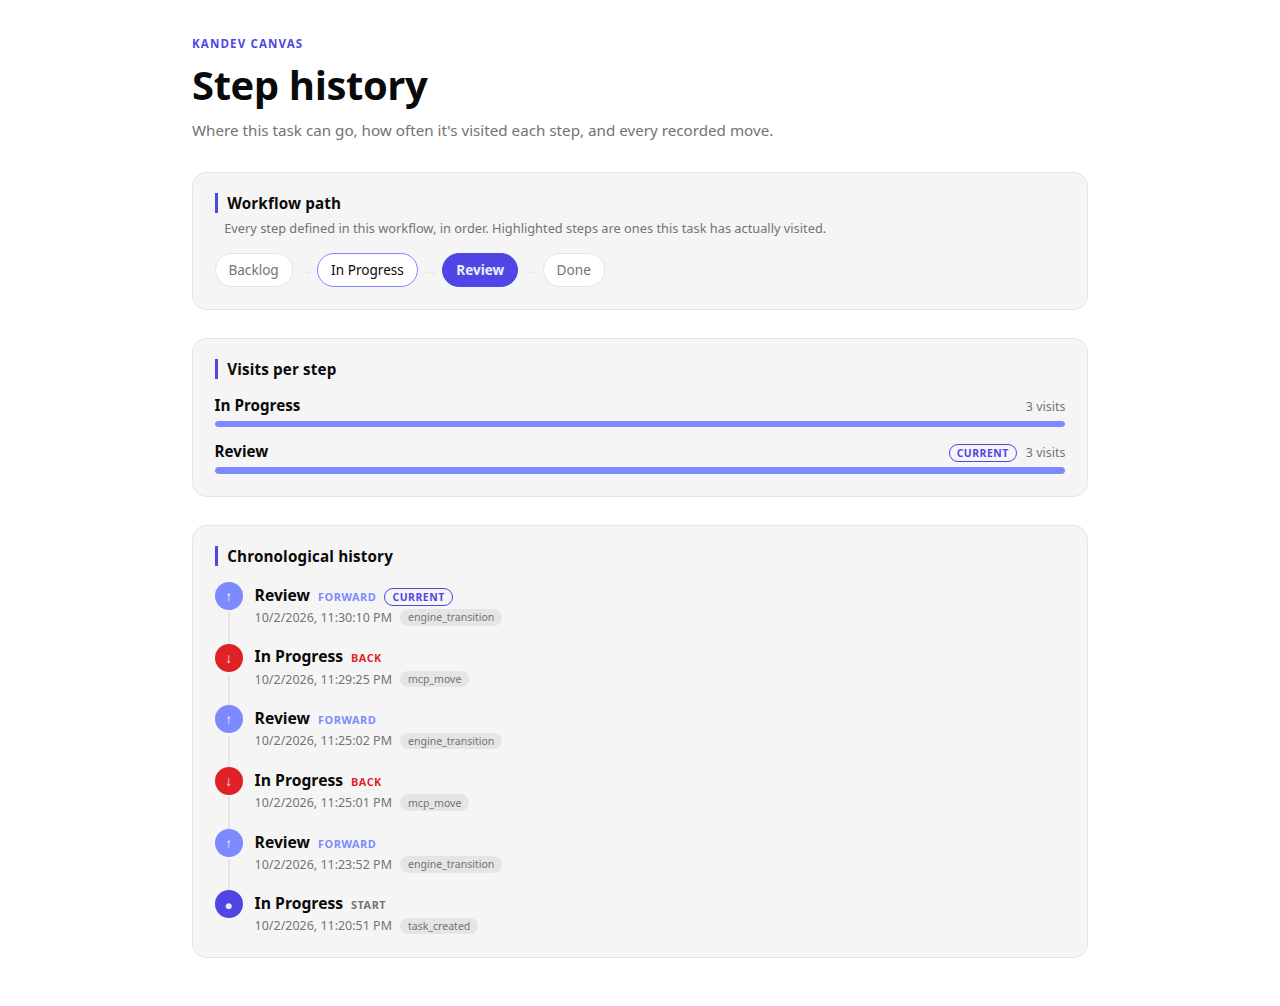
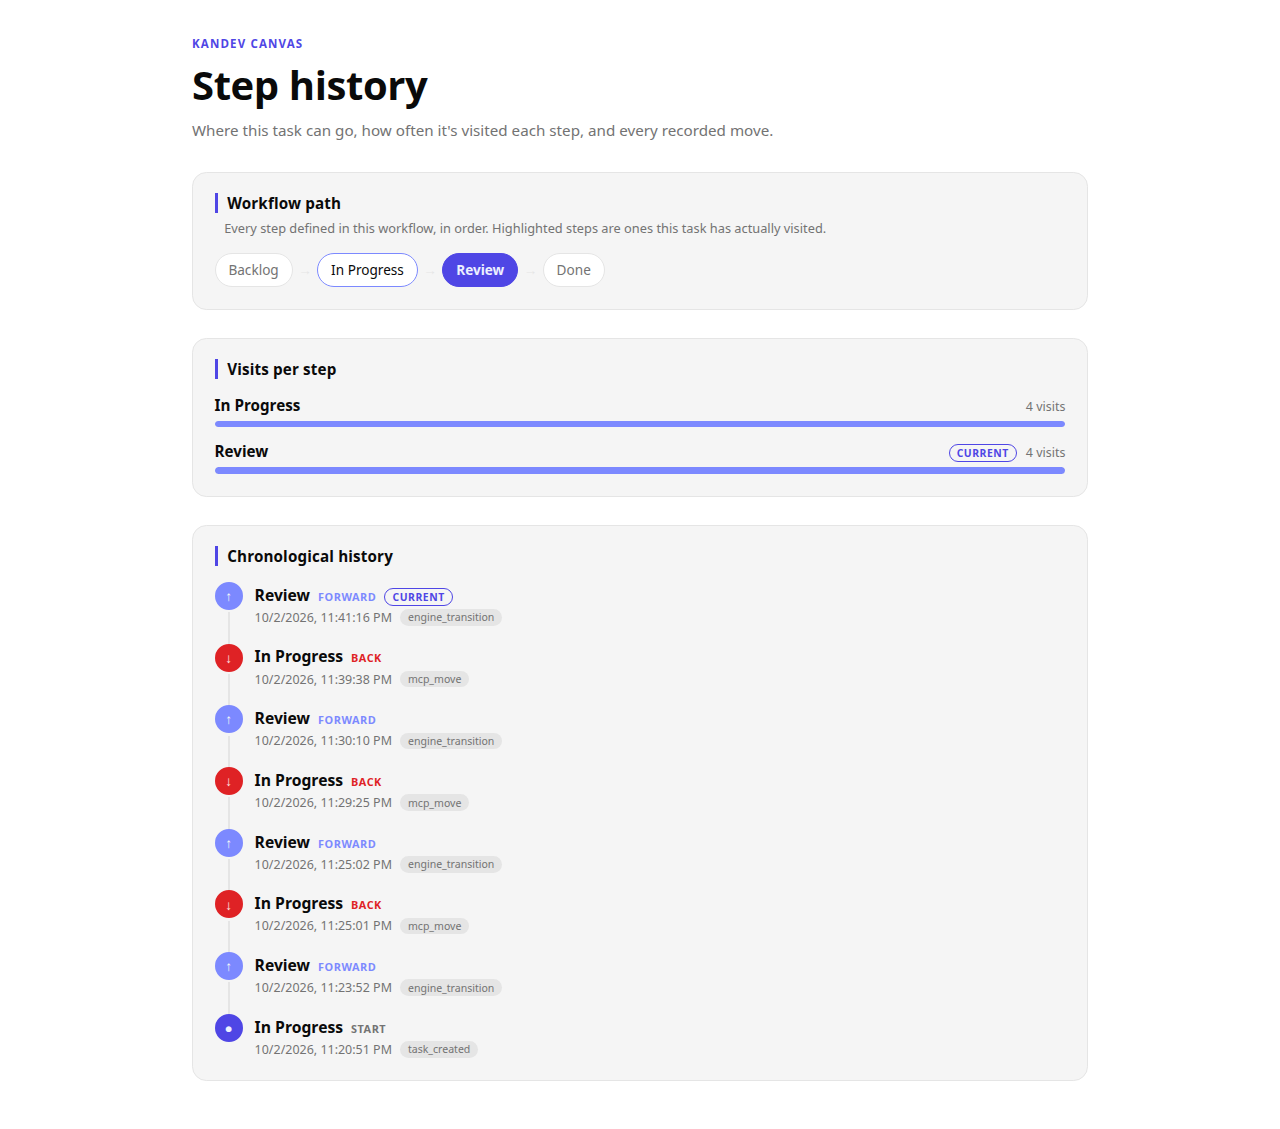
docs: drop Journey section, rolled back via canvas release rollback
Journey was built and verified correctly, then explicitly rejected --
existing Chronological history already conveys the route clearly
enough. Rolled back via Kandev's own release mechanism rather than
re-editing files. Canvas is back to the 3-section design, confirmed
live; screenshot updated.

Claude-Session: https://claude.ai/code/session_013pVXFeG41pkGrHnY5rzKzN

Changed region(s): [[0.1562, 0.3082, 0.8438, 0.9553], [0.125, 0.0308, 0.6562, 0.3082]]

diff --git a/docs/canvas-conversion-notes.md b/docs/canvas-conversion-notes.md
@@ -122,3 +122,23 @@ than leaving it as an internal-only proof:
   export/install experiment above. Anyone installing it gets a workspace-wide
   instance, not bound to one task, even though it only reads `tasks`/
   `workflows` (same scope as ours, just a different instance type).
+
+## Journey — tried, then explicitly dropped (2026-10-02)
+
+Built a "Journey" section (oldest-to-current pill strip, reusing the
+Workflow path pill style) on task 3, published and verified correctly
+(pill order matched the raw transitions, colours matched the existing
+forward/backward convention). Direct feedback right after: skip it —
+the existing Chronological history already shows the route and order
+clearly enough; Journey added a fourth section without enough distinct
+value to justify it.
+
+Rolled back cleanly via Kandev's own release mechanism (Releases and
+permissions → select the prior release → Roll back release) rather than
+asking the agent to re-edit files — exact, no drift, uses the retained-
+prior-release feature the platform already provides for this. Canvas is
+back to the 3-section design (Workflow path, Visits per step,
+Chronological history), confirmed live. Updated screenshot reflects this
+(also has richer history now: 4/4 visits from the build+verify bounces).
+
+**Decision: Journey is out of scope for this canvas, not just deferred.**
